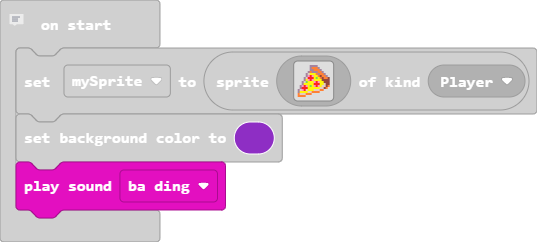
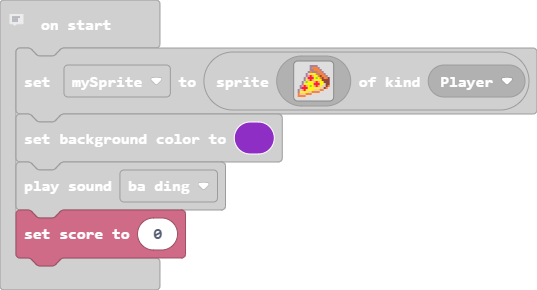
Update main.blocks, main.ts

Changed region(s): [[0.0, 0.0579, 1.0, 0.9256], [0.0298, 0.2603, 0.0894, 0.405], [0.0596, 0.405, 0.1192, 0.4339]]

diff --git a/main.ts b/main.ts
@@ -19,3 +19,4 @@ let mySprite = sprites.create(img`
     `, SpriteKind.Player)
 scene.setBackgroundColor(10)
 music.baDing.play()
+info.setScore(0)
